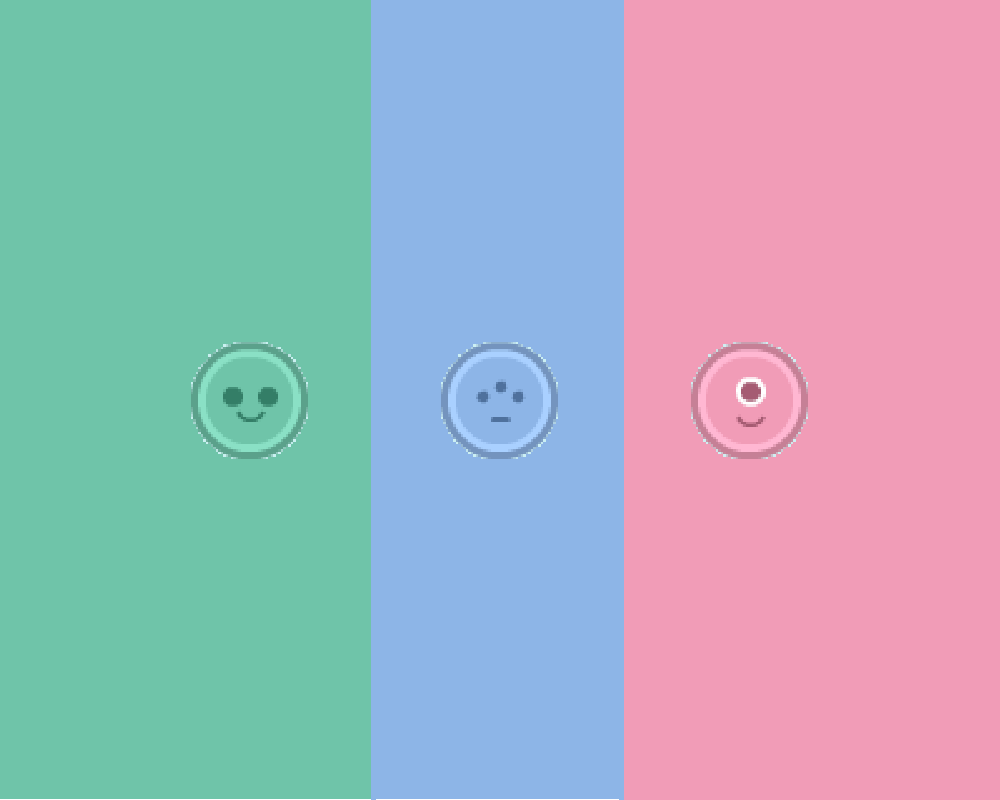
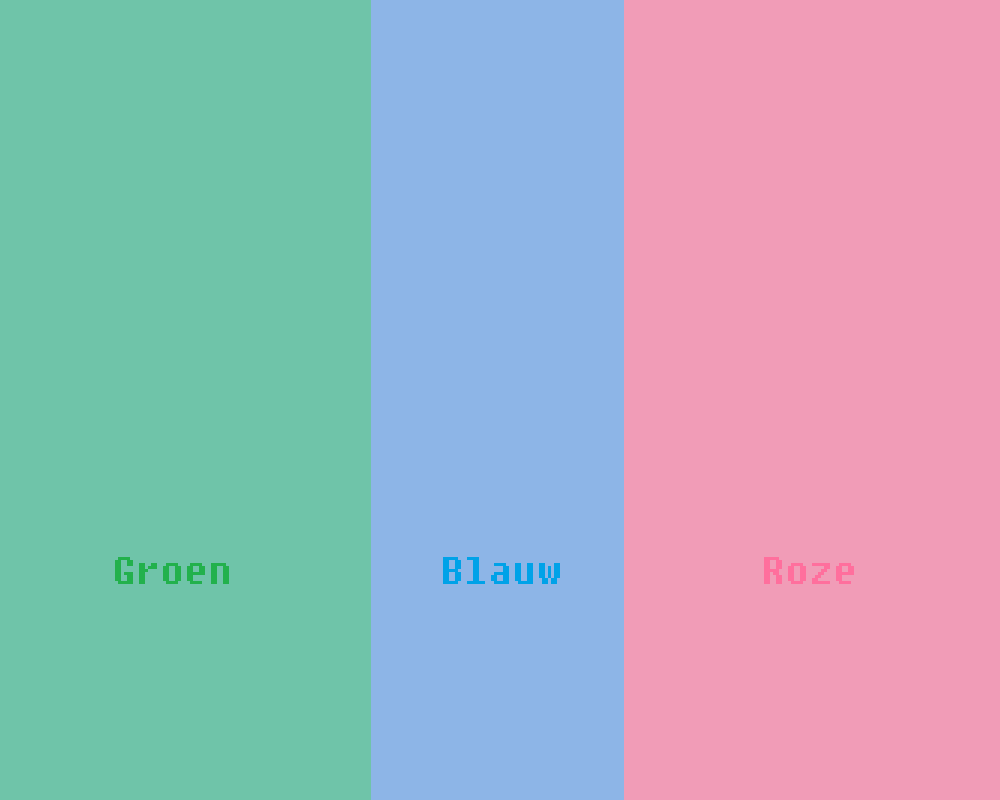
Karakterscherm is vernieuwd en vuurball is toegevoegd.

diff --git a/Hero.java b/Hero.java
@@ -53,6 +53,7 @@ public class Hero extends Mover {
         key();
         door();
         enemy();
+        fireball();
         coin();
         animationCounter ++;
         velocityX *= drag;
@@ -84,6 +85,15 @@ public class Hero extends Mover {
     public void enemy() {
         for (Actor enemy : getIntersectingObjects(Enemy.class)) {
             if (enemy != null) {
+                setLocation(83, 1035);
+                lifeCounter();
+                break;
+            }
+        }  
+    }
+    public void fireball() {
+        for (Actor fireball : getIntersectingObjects(Fireball.class)) {
+            if (fireball != null) {
                 setLocation(83, 1035);
                 lifeCounter();
                 break;

diff --git a/Characterscreen.java b/Characterscreen.java
@@ -3,13 +3,17 @@ import greenfoot.*;  // (World, Actor, GreenfootImage, Greenfoot and MouseInfo)
 public class Characterscreen extends World {
     public Characterscreen() {    
         super(1000, 800, 1); 
-        setBackground("bg.png");
+        setBackground("BackgroundCharacterscreen.png");
         
         addObject(new GreenHead(), 250, 400);
         addObject(new BlueHead(), 500, 400);
         addObject(new PinkHead(), 750, 400);
-        
-     
+        addObject(new Groen1(), 186, 400);
+        addObject(new Blauw1(), 499, 400);
+        addObject(new Roze1(), 812, 400);
+        setPaintOrder(GreenHead.class,Groen1.class, 
+        BlueHead.class, Blauw1.class, PinkHead.class, Roze1.class);
+
         
 }
 }

diff --git a/Groen1.java b/Groen1.java
@@ -1,0 +1,17 @@
+import greenfoot.*;  // (World, Actor, GreenfootImage, Greenfoot and MouseInfo)
+
+public class Groen1 extends Mover {
+    private boolean onThis = false;
+    
+    public void act() {
+        if(Greenfoot.mouseMoved(null))
+            onThis = Greenfoot.mouseMoved(this);
+        if(onThis)
+            setImage("Groen2.png"); 
+        else
+            setImage("Groen1.png"); 
+        if (Greenfoot.mouseClicked(this)) {
+            Greenfoot.setWorld(new MyWorld());
+        }
+    }    
+}

diff --git a/Fireball.java b/Fireball.java
@@ -1,0 +1,16 @@
+import greenfoot.*;  // (World, Actor, GreenfootImage, Greenfoot and MouseInfo)
+
+    public class Fireball extends Mover {
+        public Fireball() {
+        super();
+        GreenfootImage image = getImage();
+        image.scale(image.getWidth() + 30, image.getHeight() + 30);
+        setImage(image);
+    }
+    public void act() {
+        velocityX = 0;
+        velocityY = 0;
+        applyVelocity();
+        turn(17);
+    }    
+}

diff --git a/Blauw1.java b/Blauw1.java
@@ -1,0 +1,14 @@
+import greenfoot.*;  // (World, Actor, GreenfootImage, Greenfoot and MouseInfo)
+
+public class Blauw1 extends Mover {
+    private boolean onThis = false;
+    
+    public void act() {
+        if(Greenfoot.mouseMoved(null))
+            onThis = Greenfoot.mouseMoved(this);
+        if(onThis)
+            setImage("Blauw2.png"); 
+        else
+            setImage("Blauw1.png"); 
+    }    
+}

diff --git a/Roze1.java b/Roze1.java
@@ -1,0 +1,14 @@
+import greenfoot.*;  // (World, Actor, GreenfootImage, Greenfoot and MouseInfo)
+
+public class Roze1 extends Mover {
+    private boolean onThis = false;
+    
+    public void act() {
+        if(Greenfoot.mouseMoved(null))
+            onThis = Greenfoot.mouseMoved(this);
+        if(onThis)
+            setImage("Roze2.png"); 
+        else
+            setImage("Roze1.png"); 
+    }    
+}

diff --git a/GreenHead.java b/GreenHead.java
@@ -7,6 +7,5 @@ public class GreenHead extends Mover {
         setImage(image);
     }
     public void act() {
-        
     }    
 }
